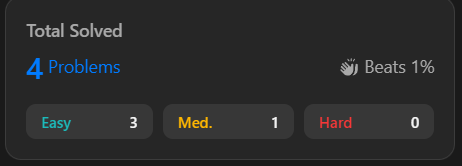
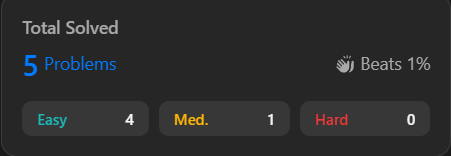
add the Check if One String Swap Can Make Strings Equal problem

diff --git a/problems/easy/1790-Check-if-One-String-Swap-Can-Make-Strings-Equal/main.js b/problems/easy/1790-Check-if-One-String-Swap-Can-Make-Strings-Equal/main.js
@@ -1,0 +1,17 @@
+const areAlmostEqual = function (s1, s2) {
+  if (s1 === s2) return true // Comprobamos que sean iguales al principio para evitar iteraciones innecesarias
+
+  const subArr = [] // Creamos un subArra para almacenar indices
+
+  for (let i = 0; i < s1.length; i++) { // Iteramos
+    if (s1[i] !== s2[i]) subArr.push(i) // Si no son iguales almacenamos ese indice
+
+    if (subArr.length > 2) return false // Si subArr es mayor a 2 quiere decir que hay mas casos lo cual no cumple
+  }
+
+  return subArr.length === 2 && // Comprobamos que subArr es 2 (opcional)
+      s1[subArr[0]] === s2[subArr[1]] && // Aqui le decimos que si el primer indice de s1 es igual al ultimo indice de s2
+      s2[subArr[0]] === s1[subArr[1]] // Aqui es lo mismo pero al reves
+}
+
+console.log(areAlmostEqual('bank', 'kanb'))

diff --git a/problems/easy/1790-Check-if-One-String-Swap-Can-Make-Strings-Equal/README.md b/problems/easy/1790-Check-if-One-String-Swap-Can-Make-Strings-Equal/README.md
@@ -1,0 +1,93 @@
+# 1790. Check if One String Swap Can Make Strings Equal
+
+Dadas dos cadenas `s1` y `s2` de la misma longitud, determina si es posible hacer que sean iguales intercambiando exactamente dos caracteres en `s1` **una sola vez** (o ninguna si ya son iguales).
+
+---
+
+## 📋 Ejemplos
+
+**Ejemplo 1:**
+
+- Entrada: `s1 = "bank"`, `s2 = "kanb"`
+- Salida: `true`
+- Explicación: Intercambiando el primer y último carácter de `s1` obtenemos `"kanb"`.
+
+**Ejemplo 2:**
+
+- Entrada: `s1 = "attack"`, `s2 = "defend"`
+- Salida: `false`
+- Explicación: No hay forma de igualar las cadenas con un solo swap.
+
+**Ejemplo 3:**
+
+- Entrada: `s1 = "kelb"`, `s2 = "kelb"`
+- Salida: `true`
+- Explicación: Las cadenas ya son iguales.
+
+**Ejemplo 4:**
+
+- Entrada: `s1 = "abcd"`, `s2 = "dcba"`
+- Salida: `false`
+- Explicación: Se requieren más de un swap.
+
+---
+
+## 💭 Enfoque y Estrategia
+
+### Análisis del problema
+
+- **Objetivo**: Verificar si se puede igualar `s1` a `s2` con un solo swap de dos caracteres (o ninguno si ya son iguales).
+- **Restricción**: Solo un swap permitido.
+- **Salida**: `true` si es posible, `false` en caso contrario.
+
+---
+
+## 🔧 Implementación
+
+```js
+const areAlmostEqual = function (s1, s2) {
+  if (s1 === s2) return true // Comprobamos que sean iguales al principio para evitar iteraciones innecesarias
+
+  const subArr = [] // Creamos un subArra para almacenar indices
+
+  for (let i = 0; i < s1.length; i++) { // Iteramos
+    if (s1[i] !== s2[i]) subArr.push(i) // Si no son iguales almacenamos ese indice
+
+    if (subArr.length > 2) return false // Si subArr es mayor a 2 quiere decir que hay mas casos lo cual no cumple
+  }
+
+  return subArr.length === 2 && // Comprobamos que subArr es 2 (opcional)
+      s1[subArr[0]] === s2[subArr[1]] && // Aqui le decimos que si el primer indice de s1 es igual al ultimo indice de s2
+      s2[subArr[0]] === s1[subArr[1]] // Aqui es lo mismo pero al reves
+}
+
+console.log(areAlmostEqual('bank', 'kanb'))
+```
+
+---
+
+## 📊 Análisis de Rendimiento
+
+- **Complejidad temporal**: O(n), donde n es la longitud de las cadenas.
+- **Complejidad espacial**: O(1), solo se almacenan como máximo dos índices.
+ ![Código de rendimiento](./public/oneString.png)
+
+---
+
+## 🎯 Aprendizajes Clave
+
+- Si las cadenas ya son iguales, no se requiere swap.
+- Solo es posible igualar las cadenas si hay exactamente dos posiciones diferentes y los caracteres se pueden intercambiar.
+- Si hay más de dos diferencias, no es posible con un solo swap.
+
+---
+
+## 🏷 Tags
+
+`String` `Array` `Easy` `Simulation`
+
+---
+
+**Tiempo invertido**: 40 minutos  
+**Intentos**: 5 
+**Dificultad percibida**: Fácil-intermedio

diff --git a/README.md b/README.md
@@ -35,6 +35,7 @@ problems/
 | [Two Sum](problems/easy/01-two-sum/) | Fácil | Array, Hash Map | [main.js](problems/easy/01-two-sum/main.js), [main2.js](problems/easy/01-two-sum/main2.js) |
 | [Search Insert Position](problems/easy/35-Search-Insert-Position/) | Fácil | Array, Binary Search | [main.js](problems/easy/35-Search-Insert-Position/main.js)|
 | [String Matching in an Array](problems/easy/1408-String-Matching-in-an-Array/) | Fácil | Array, String, String Matching | [main.js](problems/easy/1408-String-Matching-in-an-Array/main.js), [main2.js](problems/easy/1408-String-Matching-in-an-Array/main2.js) |
+| [Check if One String Swap Can Make Strings Equal](problems/easy/1790-Check-if-One-String-Swap-Can-Make-Strings-Equal/) | Fácil | String, Array, Simulation | [main.js](problems/easy/1790-Check-if-One-String-Swap-Can-Make-Strings-Equal/main.js) |
 | [Check if a Parentheses String Can Be Valid](problems/medium/2116-Check-if-a-Parentheses-String-Can-Be-Valid/) | Medio | String, Parentheses, Greedy, Stack | [main.js](problems/medium/2116-Check-if-a-Parentheses-String-Can-Be-Valid/main.js) |
 
 ## 🧠 Enfoque para Resolver Problemas
@@ -78,11 +79,11 @@ node problems/easy/01-two-sum/main2.js
 - ✅ Hash Map
 - ✅ Binary Search
 - ✅ String
-- ✅ String Maching
+- ✅ String Matching
 - ✅ Parentheses
 - ✅ Greedy
 - ✅ Stack
-
+- ✅ Simulation
 
 ---
 
